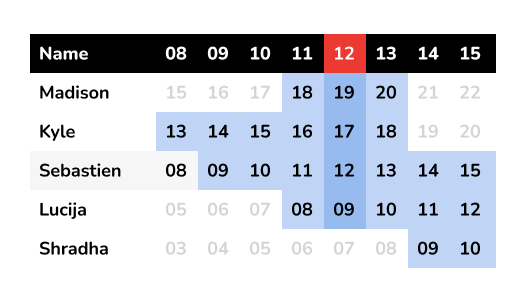
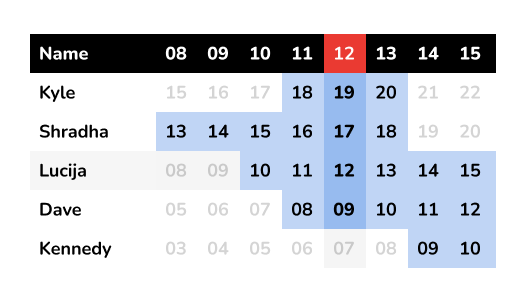
Update screenshots

diff --git a/content/products/timezone-planner/index.md b/content/products/timezone-planner/index.md
@@ -8,14 +8,14 @@ tags:
 media:
   opengraph: ./images/featured.png
   thumbnail: ./images/thumbnail.png
+  gallery:
+    - ./screenshots/team.png
+    - ./screenshots/settings.png
+    - ./screenshots/help.png
   xvideo:
     src: https://youtube.com/embed/HaDJuB5ODnY
     width: 560
     height: 315
-  gallery:
-    - ./images/demo.png
-    - ./images/settings.png
-    - ./images/help.png
 ---
 
 # Timezone Planner for Remote Teams
@@ -30,9 +30,9 @@ If you're like me and you work on remote teams, you know it can be really diffic
 
 It comes in the form of a [Google Sheet](https://www.google.co.uk/sheets/about/), so it's ubiquitous and even customisable:
 
-![demo](./images/demo.png)
+![demo](./screenshots/team.png)
 
-It can sit in an open browser tab, and you can check-in as you need. It renders based on your timezone and updates throughout the day so it's simple to grok everyone's relative time.
+It can sit in an open browser tab, and you can check-in as you need. It renders based on your timezone and updates throughout the day so it's simple to grok where everyone is in their day (or night!).
 
 ### Benefits
 
@@ -199,7 +199,7 @@ Here are some ideas:
 - Add the current **Location** to the Team sheet
   - select the cell which says "Team"
   - click in the Formula Bar
-  - paste `="Team (" &Settings!E6&")"`
+  - paste `="Team (" & INDIRECT("L") & ")"`
 
 ## Problems		
 
